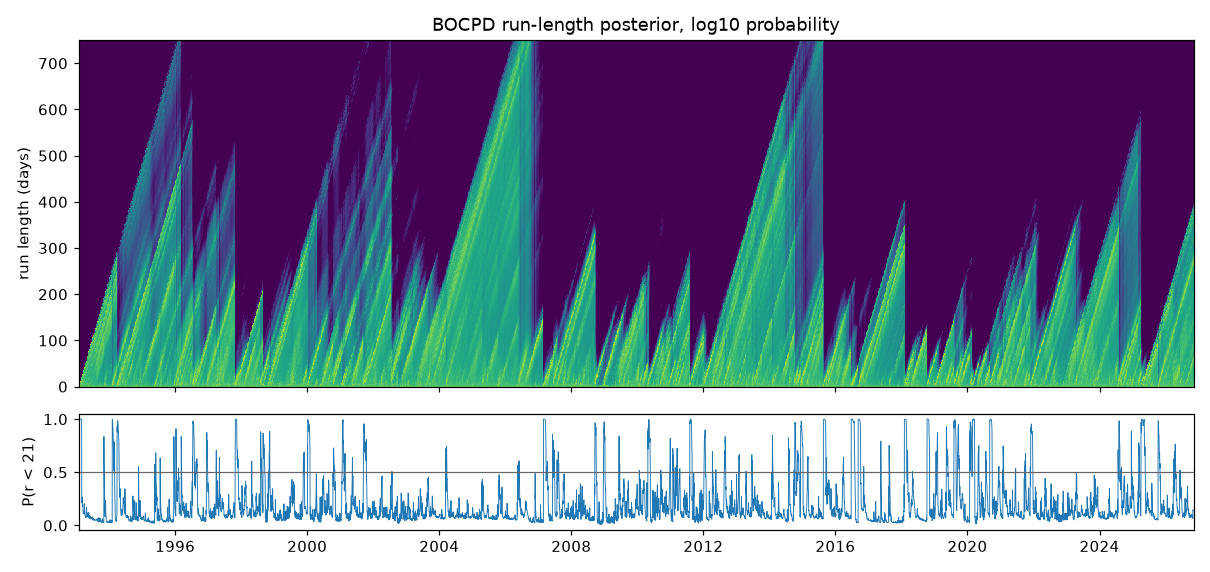
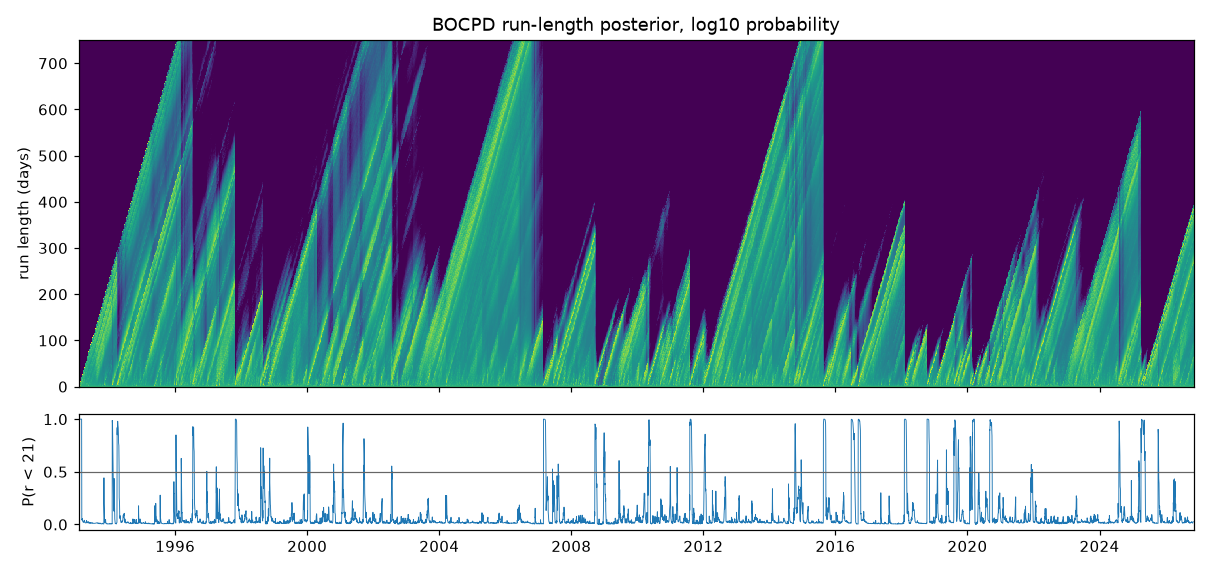
M5: reselect the BOCPD hazard under the validation constraint (owner ruling)
- constrained reselection on pre-2005 and synthetic data: hazard 1/500, alpha0 2 (original 1/100 failed the false-alarm bound and stays on record)
- validation item (3) checked at the configured hazard; the literal variance-x3 reading reported, not asserted
- BOCPD outputs and reports/regimes.md regenerated; preregistration deviation and decisions recorded

diff --git a/tests/validation/test_bocpd.py b/tests/validation/test_bocpd.py
@@ -1,8 +1,9 @@
 """AC-W-07 item (3) for BOCPD, plus exactness against a plain reference implementation.
 
-The hyperparameters are the ones chosen on pre-2005 data (``configs/base.yaml``: hazard 100,
-alpha0 2), with ``beta0 = (alpha0 - 1) sigma^2`` for the synthetic base volatility. "Variance
-shifts (x3)" is read as the standard deviation tripling; see docs/decisions.md.
+The hyperparameters are the configured ones (``configs/base.yaml``: hazard 500 after the
+constrained reselection, alpha0 2), with ``beta0 = (alpha0 - 1) sigma^2`` for the synthetic base
+volatility. "Variance shifts (x3)" is read as the standard deviation tripling (owner ruling);
+detection under the literal variance reading is reported, not asserted.
 """
 
 from __future__ import annotations
@@ -17,12 +18,11 @@ from scipy.stats import t as student
 
 from regport.config import load_config
 from regport.regime.bocpd import NormalGammaPrior, bocpd
+from regport.regime.selection import ValidationResult, validate_setting
 
 ROOT = Path(__file__).resolve().parents[2]
 CFG = load_config(ROOT / "configs/base.yaml").regime.bocpd
 SIGMA = 0.01
-SEG = 400
-SHIFTS = [SEG * i for i in range(1, 6)]
 PRIOR = NormalGammaPrior(0.0, 1.0, CFG.prior.alpha0, (CFG.prior.alpha0 - 1.0) * SIGMA**2)
 
 
@@ -62,43 +62,31 @@ def test_run_length_posterior_sums_to_one(seed: int, max_rl: int) -> None:
     assert np.max(np.abs(res.posterior.sum(axis=1) - 1.0)) <= 1e-10
 
 
-def _shifted(rng: np.random.Generator) -> np.ndarray:
-    return np.concatenate([rng.normal(0, [SIGMA, 3 * SIGMA][i % 2], SEG) for i in range(6)])
+def _check(lam: float, replications: int) -> ValidationResult:
+    return validate_setting(
+        (lam, CFG.prior.alpha0, SIGMA, CFG.max_run_length, CFG.short_run_days, 20261030),
+        replications,
+    )
 
 
-def test_detects_variance_shifts() -> None:
-    """Item (3a): at least 4 of 5 shifts flagged (cp_prob_short > 0.5) within 10 observations."""
-    rng = np.random.default_rng(20261030)
-    for _ in range(5):
-        res = bocpd(
-            _shifted(rng), CFG.hazard_lambda_days, PRIOR, CFG.max_run_length, CFG.short_run_days
-        )
-        flagged = sum(bool((res.cp_prob_short[s : s + 11] > 0.5).any()) for s in SHIFTS)
-        assert flagged >= 4
+def test_item_3_at_the_configured_hazard() -> None:
+    """Item (3) at the reselected hazard (fast: 5 replications; the full run is marked slow)."""
+    res = _check(CFG.hazard_lambda_days, 5)
+    assert res.detect_pass_reps >= 0.9 * 5  # (3a): >= 4 of 5 shifts within 10 observations
+    assert res.false_alarms_per_1000 <= 1.0  # (3b)
 
 
-def _false_alarms(lam: float, n: int = 10_000, seed: int = 4) -> float:
-    x = np.random.default_rng(seed).normal(0, SIGMA, n)
-    p = bocpd(x, lam, PRIOR, CFG.max_run_length, CFG.short_run_days).cp_prob_short[100:]
-    return int(((p[1:] > 0.5) & (p[:-1] <= 0.5)).sum()) * 1000 / (p.size - 1)
+@pytest.mark.slow
+def test_item_3_full_replications() -> None:
+    """The reselection's own check: 20 replications at the configured hazard."""
+    assert _check(CFG.hazard_lambda_days, 20).passes
 
 
-@pytest.mark.xfail(
-    strict=True,
-    reason="Documented failure pending an owner ruling: at the "
-    "hazard chosen on pre-2005 data (100 days) BOCPD raises about 6 false alarms "
-    "per 1,000 stationary days, against <= 1 (docs/decisions.md, M5)",
-)
-def test_false_alarm_rate_at_chosen_hyperparameters() -> None:
-    """Item (3b): at most 1 false alarm per 1,000 stationary observations."""
-    assert _false_alarms(CFG.hazard_lambda_days) <= 1.0
-
-
-def test_false_alarm_rate_depends_on_the_hazard() -> None:
-    """Diagnostic for the ruling: the same code meets item (3b) at a 500-day hazard."""
-    at_500 = np.mean([_false_alarms(500.0, seed=s) for s in range(5)])
-    at_chosen = np.mean([_false_alarms(CFG.hazard_lambda_days, seed=s) for s in range(5)])
-    assert at_500 <= 1.0 < at_chosen
+@pytest.mark.slow
+def test_original_hazard_failed_item_3b() -> None:
+    """On record (preregistration deviation): hazard 1/100 failed the false-alarm bound."""
+    res = _check(100.0, 20)
+    assert res.false_alarms_per_1000 > 1.0 and not res.passes
 
 
 def test_rejects_non_finite_input() -> None:

diff --git a/src/regport/regime/selection.py b/src/regport/regime/selection.py
@@ -86,3 +86,89 @@ def choose_bocpd(x: F64, max_run_length: int, short_run_days: int) -> BOCPDChoic
     best = max(table, key=lambda r: (r["predictive_loglik"], -r["hazard_lambda"]))
     prior = NormalGammaPrior(0.0, 1.0, best["alpha0"], best["beta0"])
     return BOCPDChoice(best["hazard_lambda"], prior, table)
+
+
+# Constrained reselection (owner ruling 2026-11-03; rule in docs/preregistration.md).
+SEGMENT = 400
+N_SHIFTS = 5
+REPLICATIONS = 20
+DETECT_WINDOW = 10
+STATIONARY_DAYS = 10_000
+BURN_IN = 100
+
+
+@dataclass(frozen=True)
+class ValidationResult:
+    hazard_lambda: float
+    alpha0: float
+    detect_pass_reps: int  # replications with >= 4 of 5 shifts flagged (std dev x3)
+    detect_pass_reps_variance: int  # the same under the literal "variance x3" reading
+    false_alarms_per_1000: float  # mean over replications
+
+    replications: int = REPLICATIONS
+
+    @property
+    def passes(self) -> bool:
+        """>= 90% of replications detect >= 4 of 5 shifts, and <= 1 false alarm per 1,000."""
+        return (
+            self.detect_pass_reps >= 0.9 * self.replications and self.false_alarms_per_1000 <= 1.0
+        )
+
+
+def _shift_series(rng: np.random.Generator, sigma: float, ratio: float) -> F64:
+    return np.concatenate(
+        [rng.normal(0.0, sigma * (ratio if i % 2 else 1.0), SEGMENT) for i in range(N_SHIFTS + 1)]
+    )
+
+
+def _flagged(cp_short: F64, level: float = 0.5) -> int:
+    starts = [SEGMENT * i for i in range(1, N_SHIFTS + 1)]
+    return sum(bool((cp_short[s : s + DETECT_WINDOW + 1] > level).any()) for s in starts)
+
+
+def validate_setting(
+    args: tuple[float, float, float, int, int, int],
+    replications: int = REPLICATIONS,
+) -> ValidationResult:
+    """Validation item (3) for one hazard and prior strength, with fixed seeds."""
+    lam, a0, sigma, max_rl, short, seed = args
+    prior = NormalGammaPrior(0.0, 1.0, a0, (a0 - 1.0) * sigma**2)
+    detect = detect_var = 0
+    alarms = []
+    for rep in range(replications):
+        rng = np.random.default_rng([seed, rep])
+        res = bocpd(_shift_series(rng, sigma, 3.0), lam, prior, max_rl, short)
+        detect += _flagged(res.cp_prob_short) >= 4
+        res_v = bocpd(_shift_series(rng, sigma, float(np.sqrt(3.0))), lam, prior, max_rl, short)
+        detect_var += _flagged(res_v.cp_prob_short) >= 4
+        p = bocpd(rng.normal(0.0, sigma, STATIONARY_DAYS), lam, prior, max_rl, short).cp_prob_short[
+            BURN_IN:
+        ]
+        onsets = int(((p[1:] > 0.5) & (p[:-1] <= 0.5)).sum())
+        alarms.append(onsets * 1000.0 / (p.size - 1))
+    return ValidationResult(lam, a0, detect, detect_var, float(np.mean(alarms)), replications)
+
+
+def choose_bocpd_constrained(
+    x: F64, max_run_length: int, short_run_days: int, seed: int, n_jobs: int = 1
+) -> tuple[BOCPDChoice | None, list[ValidationResult]]:
+    """Highest pre-2005 predictive log-likelihood among settings passing validation item (3)."""
+    sigma = float(np.std(x, ddof=1))
+    base = choose_bocpd(x, max_run_length, short_run_days)
+    jobs = [
+        (lam, a0, sigma, max_run_length, short_run_days, seed)
+        for lam in HAZARD_GRID
+        for a0 in ALPHA_GRID
+    ]
+    if n_jobs > 1:
+        with ProcessPoolExecutor(max_workers=n_jobs) as pool:
+            checks = list(pool.map(validate_setting, jobs))
+    else:
+        checks = [validate_setting(j) for j in jobs]
+    passing = {(c.hazard_lambda, c.alpha0) for c in checks if c.passes}
+    candidates = [r for r in base.table if (r["hazard_lambda"], r["alpha0"]) in passing]
+    if not candidates:
+        return None, checks
+    best = max(candidates, key=lambda r: (r["predictive_loglik"], -r["hazard_lambda"]))
+    prior = NormalGammaPrior(0.0, 1.0, best["alpha0"], best["beta0"])
+    return BOCPDChoice(best["hazard_lambda"], prior, base.table), checks

diff --git a/tests/unit/test_config.py b/tests/unit/test_config.py
@@ -20,7 +20,7 @@ def test_base_config_matches_spec_defaults() -> None:
     # and the BOCPD hazard and prior (FR-14). Every other value is the spec default.
     assert cfg.risk.estimator == "ewma"
     assert cfg.regime.hmm.n_states == 4
-    assert cfg.regime.bocpd.hazard_lambda_days == 100
+    assert cfg.regime.bocpd.hazard_lambda_days == 500
     data = cfg.model_dump()
     data["risk"]["estimator"] = "ledoit_wolf"
     data["regime"]["hmm"]["n_states"] = "auto"

diff --git a/docs/decisions.md b/docs/decisions.md
@@ -172,7 +172,7 @@ Answered in the main session and relayed by the 15-projects review session.
 |---|---|---|
 | K (D-05) | 4. BIC 15,657 against 15,684 for K = 3 and 15,893 for K = 2, on 3,003 days from 1993-02-02 to 2004-12-31 | Rule fixed beforehand |
 | BOCPD (FR-14) | Hazard 1/100, α0 = 2, β0 = 1.189e-4. Highest pre-2005 predictive log-likelihood (9,781.0, against 9,776.3 at 1/250) | Rule fixed beforehand |
-| BOCPD validation (3b) | **Fails at the chosen hazard:** about 6.8 false alarms per 1,000 stationary days, against ≤ 1. A grid over hazard × α0 (8 replications each) shows the same code at 0.4–0.8 per 1,000 at hazard 1/500, with ≥ 4 of 5 shifts detected in 88–100% of replications. Detection (3a) passes at the chosen hazard. The test is an expected failure pending the owner's ruling | Not retuned to pass: the hazard was chosen by the preregistered rule |
+| BOCPD validation (3b) | Superseded by the owner ruling below (reselected hazard 1/500 passes). **Failed at the first chosen hazard:** about 6.8 false alarms per 1,000 stationary days, against ≤ 1. A grid over hazard × α0 (8 replications each) shows the same code at 0.4–0.8 per 1,000 at hazard 1/500, with ≥ 4 of 5 shifts detected in 88–100% of replications. Detection (3a) passes at the chosen hazard. The test is an expected failure pending the owner's ruling | Not retuned to pass: the hazard was chosen by the preregistered rule |
 | Fixed during M5 | An integer prior (`mu0 = 0`) made Numba compile integer arrays for the running means, which broke BOCPD. Every argument is now cast to float. A test checks the result against a textbook implementation to 1e-12 | — |
 | Label-switch count (FR-13) | A switch is a change, between consecutive refits, of the alignment permutation applied on top of the canonical order. The first real run counted every refit whose aligned labels differed from canonical order (231 of 285), which double-counts after the first real switch | A persistent relabelling is one event, not one per refit |
 | HMM fitting speed | hmmlearn `implementation="scaling"` (about 2× faster than `"log"`), refits in parallel over `REGPORT_N_JOBS` processes (8 for the real run, with BLAS threads at 1). The full walk-forward (285 refits × 10 restarts) took 533 s on the reference PC (NFR-01: ≤ 30 min). Seeds are per refit, so results don't depend on the job count | Owner's 8-thread limit |
@@ -180,3 +180,37 @@ Answered in the main session and relayed by the 15-projects review session.
 | Missing macro releases | In feature set B a missing month (e.g. October 2025, during the US government shutdown) carries the last known value forward | Uses no later data |
 | BAA10Y in reports | `reports/regimes.md` tabulates state emissions for the equity-return feature only | P-07 ruling: BAA10Y is a model input, never tabulated |
 | Smoothed probabilities | Own forward–backward pass in `regport.report.figures.smoothed_for_illustration`, with the final refit's parameters. Equals hmmlearn's `predict_proba` to 1e-10 in a test | DQ-08 |
+
+## Owner rulings on M5 (2026-11-03)
+
+Relayed by the 15-projects review session.
+
+1. **BOCPD hazard: "Constrained reselection".**
+   - **Rule:** the reselection, on pre-2005 and synthetic data only, keeps the settings that pass both validation checks and picks the highest pre-2005 predictive log-likelihood among them. The rule was committed (537b5d6) before it ran.
+   - **Result:** hazard 1/500, α0 = 2.
+   - **On record:** the original choice of 1/100 failed (3b) with 6.4–6.8 false alarms per 1,000 days. That stays in `docs/preregistration.md` under Deviations, with the full table.
+   - **Tests:** `tests/validation/test_bocpd.py` checks item (3) at the configured hazard (5 replications in CI; 20, and the 1/100 failure, under `slow`).
+2. **"Variance shifts (×3)": "Std dev ×3, report both".**
+   - **Selection:** uses the standard-deviation reading (variance ×9).
+   - **The literal variance reading** is reported for every setting: at most 4 of 20 replications detect ≥ 4 of 5 shifts, and 1 of 20 at the chosen setting.
+   - **Ambiguity:** the spec's wording is ambiguous. This reading was chosen after the results were seen.
+3. **Effect on outputs.** The BOCPD outputs were regenerated. P(run length < 21) is now above 0.5 on 5.9% of OOS days, against 11.0% at 1/100. The HMM is unaffected.
+
+| Hazard | α0 | (3a) reps with ≥ 4 of 5 (std dev ×3) | (3a) under the variance reading | (3b) false alarms per 1,000 | Passes | Pre-2005 predictive log-lik. |
+|---|---|---|---|---|---|---|
+| 1/100 | 2 | 20 | 4 | 6.36 | no | 9,781.00 |
+| 1/100 | 5 | 20 | 2 | 5.13 | no | 9,764.32 |
+| 1/100 | 10 | 20 | 2 | 5.04 | no | 9,742.97 |
+| 1/100 | 20 | 20 | 2 | 4.87 | no | 9,709.05 |
+| 1/250 | 2 | 19 | 1 | 1.75 | no | 9,776.30 |
+| 1/250 | 5 | 19 | 1 | 1.36 | no | 9,763.07 |
+| 1/250 | 10 | 19 | 1 | 1.35 | no | 9,744.02 |
+| 1/250 | 20 | 18 | 1 | 1.33 | no | 9,712.40 |
+| **1/500** | **2** | **19** | **1** | **0.67** | **yes** | **9,768.48** |
+| 1/500 | 5 | 19 | 1 | 0.56 | yes | 9,757.96 |
+| 1/500 | 10 | 19 | 1 | 0.56 | yes | 9,740.02 |
+| 1/500 | 20 | 15 | 0 | 0.53 | no | 9,710.30 |
+| 1/1000 | 2 | 18 | 0 | 0.30 | yes | 9,760.31 |
+| 1/1000 | 5 | 19 | 0 | 0.23 | yes | 9,751.76 |
+| 1/1000 | 10 | 18 | 0 | 0.21 | yes | 9,734.80 |
+| 1/1000 | 20 | 14 | 0 | 0.20 | no | 9,706.80 |

diff --git a/docs/preregistration.md b/docs/preregistration.md
@@ -65,4 +65,26 @@ Does a regime layer built from strictly filtered probabilities improve out-of-sa
   - **(3b) false alarms:** 10,000 stationary days at σ. Count onsets (crossings above 0.5) after a 100-day burn-in. The setting passes if the mean over the 20 replications is at most 1.0 per 1,000 days.
   - **Choice:** among the settings that pass both, the highest pre-2005 predictive log-likelihood. If none passes, nothing changes and the owner is told.
   - **Also reported:** detection under the literal "variance ×3" reading (σ and √3σ).
-- **Result:** recorded below once the reselection has run.
+- **Result (run 2026-11-03, 20 replications per setting, σ = s = 0.0109):** hazard **1/500** with α0 = 2 and β0 = 1.189e-4. It is the passing setting with the highest pre-2005 predictive log-likelihood. `configs/base.yaml` now uses it for every run. The headline table above keeps the original 1/100, as written at registration.
+
+| Hazard | α0 | (3a) reps with ≥ 4 of 5 (std dev ×3) | (3a) under the variance reading | (3b) false alarms per 1,000 | Passes | Pre-2005 predictive log-lik. |
+|---|---|---|---|---|---|---|
+| 1/100 | 2 | 20 | 4 | 6.36 | no | 9,781.00 |
+| 1/100 | 5 | 20 | 2 | 5.13 | no | 9,764.32 |
+| 1/100 | 10 | 20 | 2 | 5.04 | no | 9,742.97 |
+| 1/100 | 20 | 20 | 2 | 4.87 | no | 9,709.05 |
+| 1/250 | 2 | 19 | 1 | 1.75 | no | 9,776.30 |
+| 1/250 | 5 | 19 | 1 | 1.36 | no | 9,763.07 |
+| 1/250 | 10 | 19 | 1 | 1.35 | no | 9,744.02 |
+| 1/250 | 20 | 18 | 1 | 1.33 | no | 9,712.40 |
+| **1/500** | **2** | **19** | **1** | **0.67** | **yes** | **9,768.48** |
+| 1/500 | 5 | 19 | 1 | 0.56 | yes | 9,757.96 |
+| 1/500 | 10 | 19 | 1 | 0.56 | yes | 9,740.02 |
+| 1/500 | 20 | 15 | 0 | 0.53 | no | 9,710.30 |
+| 1/1000 | 2 | 18 | 0 | 0.30 | yes | 9,760.31 |
+| 1/1000 | 5 | 19 | 0 | 0.23 | yes | 9,751.76 |
+| 1/1000 | 10 | 18 | 0 | 0.21 | yes | 9,734.80 |
+| 1/1000 | 20 | 14 | 0 | 0.20 | no | 9,706.80 |
+
+- **Under the literal "variance ×3" reading,** detection fails for every setting (at most 4 of 20 replications). The standard-deviation reading was chosen after these results were seen, and that is disclosed here and in `docs/decisions.md` (owner ruling: use the standard deviation for selection, report both).
+- **When:** committed before any real-data backtest or grid row.

diff --git a/reports/regimes.md b/reports/regimes.md
@@ -8,7 +8,7 @@ Generated by `regport regime report`; do not edit by hand.
 - Refits: 285, every 21 trading days on an expanding window of at least 2520 days; first fit ends 2003-01-31.
 - **Proxy:** before 1998-01-02 the SPY return feature is the Kenneth French daily market return (Mkt-RF + RF): 1243 days, 1993-02-02 to 1997-12-31. It feeds the regime models only, never a portfolio return.
 - Label switches (Hungarian matching overruled the canonical order): 18, on 2003-05-02, 2003-06-03, 2003-07-02, 2003-09-02, 2003-10-01, 2003-12-01, 2007-06-05, 2007-07-05, 2007-08-03, 2007-12-03, 2008-01-03, 2008-02-04, 2008-04-04, 2008-05-05, 2008-08-04, 2009-08-04, 2009-12-02, 2010-01-04.
-- BOCPD: hazard 1/100, Normal-Gamma prior (alpha0 2, beta0 0.000119); P(run length < 21) above 0.5 on 11.0% of OOS days.
+- BOCPD: hazard 1/500, Normal-Gamma prior (alpha0 2, beta0 0.000119); P(run length < 21) above 0.5 on 5.9% of OOS days.
 
 ## States at the last refit (equity-return emission only)
 

diff --git a/README.md b/README.md
@@ -2,7 +2,7 @@
 
 > Detect market regimes in real time and compare allocation methods honestly against the 1/N benchmark.
 
-**Status:** in progress. M1 (scaffolding, CI, smoke test), M2 (point-in-time data layer), M3 (risk models) and M4 (optimizers, costs, backtest engine) are done; M5 (regime layer) is built, pending an owner ruling on one BOCPD validation threshold; the research memo replaces this README at M7.
+**Status:** in progress. M1 (scaffolding, CI, smoke test), M2 (point-in-time data layer), M3 (risk models) and M4 (optimizers, costs, backtest engine) are done; M5 (regime layer, preregistration) is done; the research memo replaces this README at M7.
 
 | | |
 |---|---|
